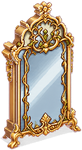
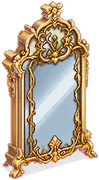
镜子右移避开柱子，放大到人物约1.5倍
Claude-Session: https://claude.ai/code/session_015MetZpZfHySQWDEPDS41Tu

diff --git a/demo/palace.html b/demo/palace.html
@@ -184,7 +184,7 @@ function catDraw() { const c = CAT; let k;
 
 /* 11/25 法阵（传送阵）+ 誓约石：站上去转满一圈（2 秒）触发。传送阵 → 高塔；誓约石 → 热度面板（先花 100 水晶解锁） */
 const MI = f => IM('art/meta/' + f + '.png'), CIR = [0, 1, 2, 3, 4].map(k => MI('circle' + k)), STN = [0, 1, 2, 3].map(k => MI('stone' + k));
-const SPOT = [{ id: 'mirror', x: 205, y: 410, r: 55, ring: 0, done: 0 }, { id: 'tp', x: 320, y: 495, r: 60, ring: 0, done: 0 }, { id: 'oath', x: 820, y: 520, r: 60, ring: 0, done: 0 }];
+const SPOT = [{ id: 'mirror', x: 268, y: 425, r: 55, ring: 0, done: 0 }, { id: 'tp', x: 320, y: 495, r: 60, ring: 0, done: 0 }, { id: 'oath', x: 820, y: 520, r: 60, ring: 0, done: 0 }];
 const heat = () => { try { return Object.assign({ mob: 0, dmg: 0, life: 0 }, JSON.parse(LS.get('heat') || '{}')); } catch (e) { return { mob: 0, dmg: 0, life: 0 }; } };
 function flashTo(cb) { let f = document.getElementById('wf'); if (!f) { f = document.createElement('div'); f.id = 'wf'; f.style.cssText = 'position:fixed;inset:0;background:#fff;opacity:0;pointer-events:none;z-index:50;transition:opacity .45s'; document.body.appendChild(f); } f.style.opacity = 1; setTimeout(cb, 520); }
 function oathPanel() { $('pt').textContent = `誓约石　（水晶 ${crystal}）`; const L = $('pl'); L.innerHTML = '';
@@ -222,7 +222,7 @@ const MIR = [IM('art/hub/mirror0.png'), IM('art/hub/mirror1.png')];
 function mirrorDraw(o) { const t = T, ready = careerReady(saveRun()), im = MIR[(o.glow || 0) > .3 ? 1 : 0]; g.save(); g.imageSmoothingEnabled = true;
   g.fillStyle = 'rgba(0,0,0,.22)'; g.beginPath(); g.ellipse(o.x + 6, o.y + 2, 40, 10, 0, 0, Math.PI * 2); g.fill();
   if (im.complete && im.naturalWidth) g.drawImage(im, o.x - im.naturalWidth / 2, o.y + 6 - im.naturalHeight);
-  if (ready) { const b = Math.sin(t * 4) * 4; g.font = 'bold 30px sans-serif'; g.textAlign = 'center'; g.fillStyle = '#ffd84a'; g.strokeStyle = '#3a1d02'; g.lineWidth = 4; g.strokeText('!', o.x, o.y - 152 + b); g.fillText('!', o.x, o.y - 152 + b); }
+  if (ready) { const b = Math.sin(t * 4) * 4; g.font = 'bold 30px sans-serif'; g.textAlign = 'center'; g.fillStyle = '#ffd84a'; g.strokeStyle = '#3a1d02'; g.lineWidth = 4; g.strokeText('!', o.x, o.y - 182 + b); g.fillText('!', o.x, o.y - 182 + b); }
   g.restore(); g.imageSmoothingEnabled = false; if (o.ring > 0) ringAt(o.x, o.y + 6, 44, 14, o.ring); }
 let tpGo = 0;
 function spotDraw(o) { if (o.id === 'mirror') return mirrorDraw(o); const t = T; if (o.id === 'tp') { const f = o.glow > .5 ? (Math.floor(t * 4) % 2 ? 2 : 3) : (o.glow > 0 ? 1 : 0), im = CIR[f]; if (im && im.complete && im.naturalWidth) { const w = 170; g.drawImage(im, o.x - w / 2, o.y + 30 - w * im.naturalHeight / im.naturalWidth * .62, w, w * im.naturalHeight / im.naturalWidth); } { g.save(); g.globalCompositeOperation = 'lighter'; g.translate(o.x, o.y + 8); g.scale(1, .38); const k = .5 + .5 * Math.sin(t * 2.2), gr = g.createRadialGradient(0, 0, 0, 0, 0, 95); gr.addColorStop(0, `rgba(255,224,140,${.14 + .10 * k + .25 * (o.glow || 0)})`); gr.addColorStop(.6, `rgba(255,200,110,${.06 + .05 * k})`); gr.addColorStop(1, 'rgba(255,190,100,0)'); g.fillStyle = gr; g.beginPath(); g.arc(0, 0, 95, 0, 7); g.fill(); g.restore(); }
